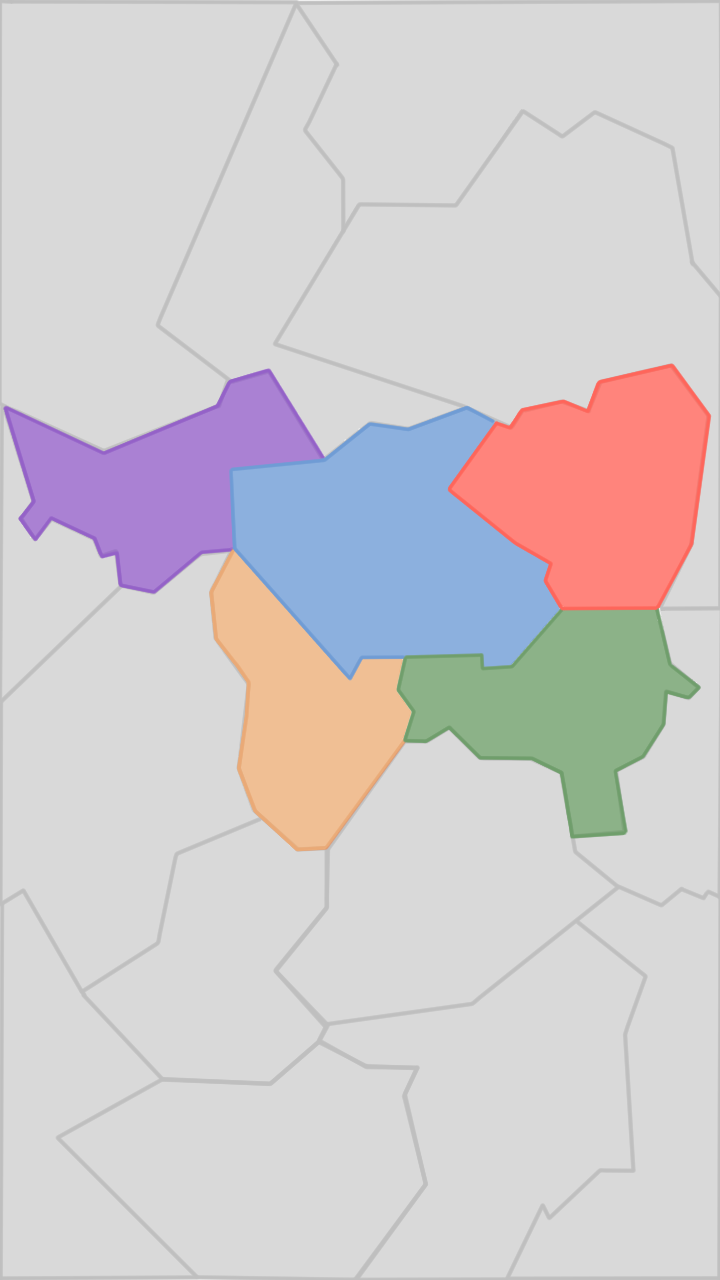
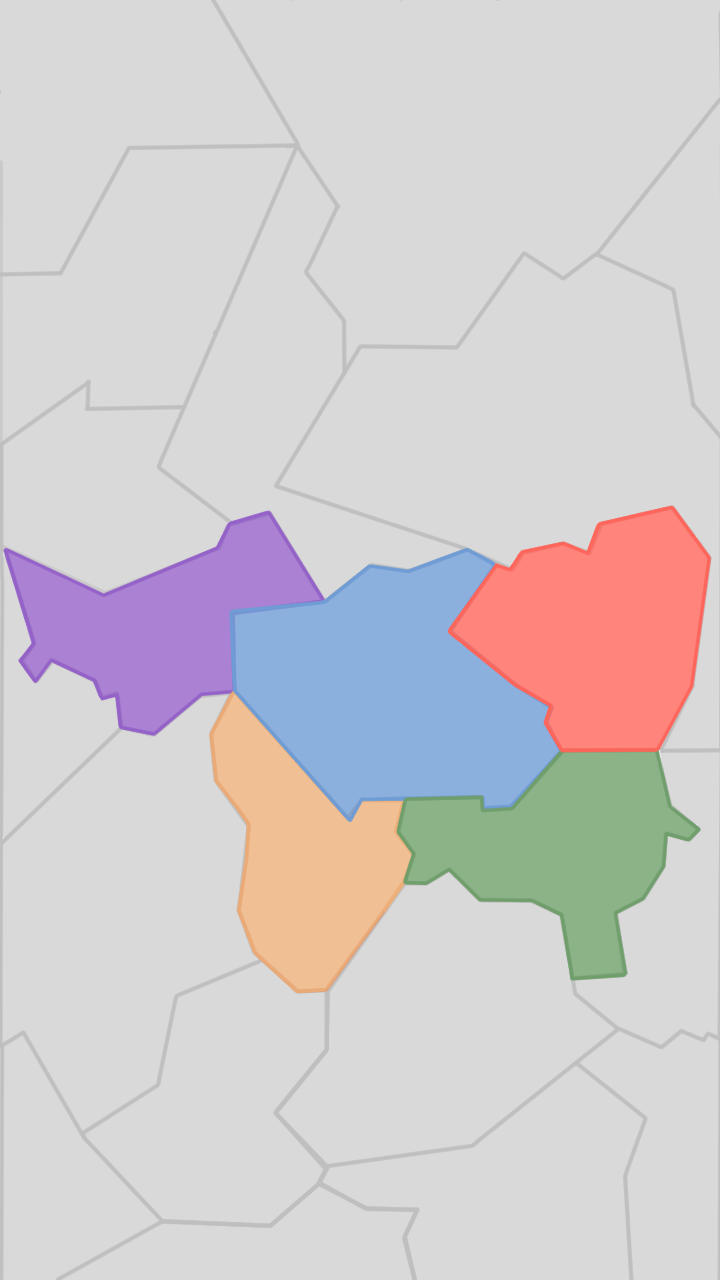
マップを新しいものに変更

diff --git a/lib/screen/Map.dart b/lib/screen/Map.dart
@@ -69,8 +69,8 @@ class MapPageScreens extends StatelessWidget {
                     ),
                   ),
                   Positioned(
-                    left: 80,
-                    top: 198,
+                    left: 79,
+                    top: 275,
                     child: GestureDetector(
                       onTap: () {
                         Navigator.push(
@@ -80,14 +80,14 @@ class MapPageScreens extends StatelessWidget {
                       },
                       child: Image.asset(
                         'assets/Map(1).png', //新宿
-                        width: 168,
-                        height: 168,
+                        width: 169,
+                        height: 169,
                       ),
                     ),
                   ),
                   Positioned(
-                    left: 237,
-                    top: 92,
+                    left: 236.5,
+                    top: 168,
                     child: GestureDetector(
                       onTap: () {
                         Navigator.push(
@@ -103,8 +103,8 @@ class MapPageScreens extends StatelessWidget {
                     ),
                   ),
                   Positioned(
-                    left: -8,
-                    top: 72,
+                    left: -9,
+                    top: 149,
                     child: GestureDetector(
                       onTap: () {
                         Navigator.push(
@@ -114,14 +114,14 @@ class MapPageScreens extends StatelessWidget {
                       },
                       child: Image.asset(
                         'assets/Map(3).png', //落合
-                        width: 183,
-                        height: 183,
+                        width: 184,
+                        height: 184,
                       ),
                     ),
                   ),
                   Positioned(
                     left: 116,
-                    top: 106,
+                    top: 182,
                     child: GestureDetector(
                       onTap: () {
                         Navigator.push(
@@ -131,14 +131,14 @@ class MapPageScreens extends StatelessWidget {
                       },
                       child: Image.asset(
                         'assets/Map(4).png', //高田馬場
-                        width: 186,
-                        height: 186,
+                        width: 187,
+                        height: 187,
                       ),
                     ),
                   ),
                   Positioned(
-                    left: 204,
-                    top: 207,
+                    left: 205,
+                    top: 284.5,
                     child: GestureDetector(
                       onTap: () {
                         Navigator.push(
@@ -148,8 +148,8 @@ class MapPageScreens extends StatelessWidget {
                       },
                       child: Image.asset(
                         'assets/Map(5).png', //四谷
-                        width: 177,
-                        height: 177,
+                        width: 175,
+                        height: 175,
                       ),
                     ),
                   ),
